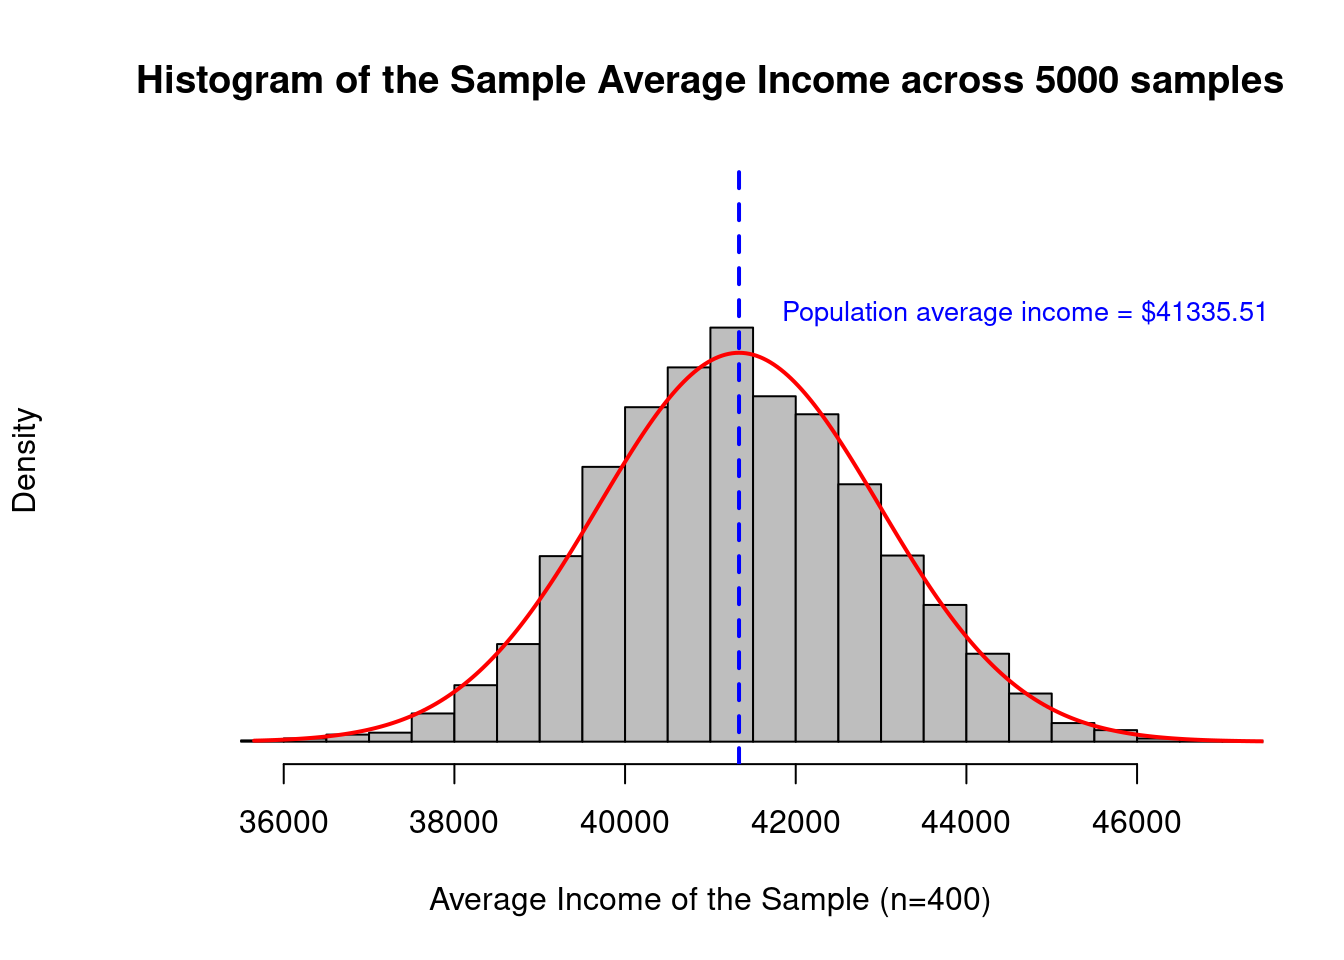
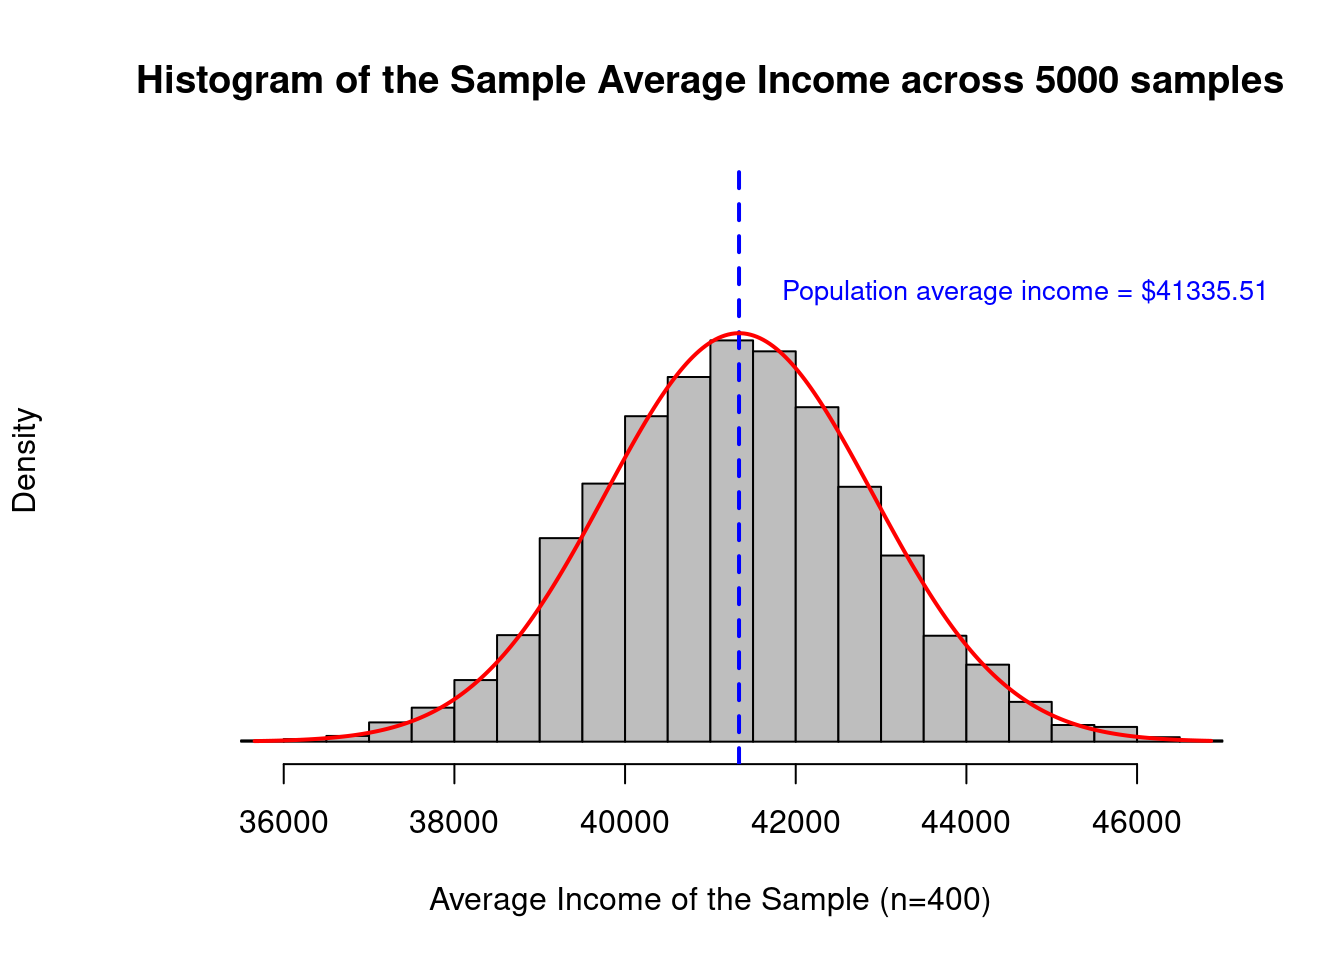
Undo Test

diff --git a/docs/03b-CLT.html b/docs/03b-CLT.html
@@ -306,7 +306,6 @@ div.tocify {
 
 
 
-<link rel="shortcut icon" href="images/favicon-32x32.png" />
 <div class="navbar navbar-default  navbar-fixed-top" role="navigation">
   <div class="container">
     <div class="navbar-header">
@@ -458,11 +457,11 @@ deviation of the sample.</p>
 <pre class="r"><code># Calculate the sample mean of Income
 sample.avg &lt;- mean(study.data$INCOME)
 sample.avg</code></pre>
-<pre><code>&gt; [1] 37427.38</code></pre>
+<pre><code>&gt; [1] 39835.91</code></pre>
 <pre class="r"><code># Calculate the sample sd of Income
 sample.sd &lt;- sd(study.data$INCOME)
 sample.sd</code></pre>
-<pre><code>&gt; [1] 28084.84</code></pre>
+<pre><code>&gt; [1] 31726.75</code></pre>
 <p>If you run the last two sections of code repeatedly, you will find
 that each time a new sample is selected the sample mean is a different
 number.</p>
@@ -588,7 +587,7 @@ upperCI = sample.avg + qnorm(0.975, mean = 0, sd = 1) * se
 
 print(cbind(sample.avg, lowerCI, upperCI))</code></pre>
 <pre><code>&gt;      sample.avg  lowerCI  upperCI
-&gt; [1,]   43535.68 40308.53 46762.83</code></pre>
+&gt; [1,]   39777.76 36705.45 42850.07</code></pre>
 </div>
 <div id="interpreting-confidence-intervals" class="section level2">
 <h2>Interpreting confidence intervals</h2>
@@ -614,7 +613,7 @@ sample.reps$outBounds[ true.avg &gt; sample.reps$upperCI ] &lt;- 1
 
 # what % of study replications reported 95% CI that did not include the true population average?
 sum(sample.reps$outBounds)/m</code></pre>
-<pre><code>&gt; [1] 0.0462</code></pre>
+<pre><code>&gt; [1] 0.055</code></pre>
 <p>I hope it is not too much of a surprise that this is really close to
 5%!</p>
 <p>Next: Elements of a Statistical Test</p>

diff --git a/docs/04a-Binomial-Test.html b/docs/04a-Binomial-Test.html
@@ -306,7 +306,6 @@ div.tocify {
 
 
 
-<link rel="shortcut icon" href="images/favicon-32x32.png" />
 <div class="navbar navbar-default  navbar-fixed-top" role="navigation">
   <div class="container">
     <div class="navbar-header">
@@ -367,7 +366,7 @@ if(runif(1) &lt;= p){1}else{0}</code></pre>
 p = 1/6
 n = 20
 as.integer(runif(n) &lt;= p)</code></pre>
-<pre><code>&gt;  [1] 0 1 0 0 0 0 0 0 0 0 0 0 1 0 0 0 0 1 0 0</code></pre>
+<pre><code>&gt;  [1] 0 0 0 1 0 1 1 0 0 0 0 0 0 0 0 1 1 0 0 0</code></pre>
 </div>
 </div>
 <div id="binomial-distribution-functions" class="section level2">
@@ -425,10 +424,9 @@ trials when the probability of success is “prob”</p>
 n = 20
 p = 1/6
 rbinom(n = trials, size = n, prob = p)</code></pre>
-<pre><code>&gt;   [1]  2  2  2  6  4  4  6  3  5  2  5  6  9  2  2  2  1  3  6  1  1  5  3  2  2
-&gt;  [26]  2  4  2  0  5  5  5  2  4  3 10  1  5  5  1  2  2  5  6  7  3  0  2  3  5
-&gt;  [51]  2  2  7  6  3  3  4  5  3  2  6  4  1  5  4  3  1  8  3  1  7  5  1  4  6
-&gt;  [76]  4  6  1  4  5  3  3  2  3  1  3  4  3  3  2  4  4  3  4  4  2  5  4  5  6</code></pre>
+<pre><code>&gt;   [1] 1 4 1 1 4 2 2 4 6 3 4 3 1 2 1 1 1 2 6 4 3 3 5 1 2 2 4 5 1 7 4 2 1 3 3 5 5
+&gt;  [38] 3 3 4 3 5 4 4 3 4 2 4 4 5 1 4 2 2 2 1 6 3 4 6 3 2 4 4 3 4 1 4 2 3 3 2 4 0
+&gt;  [75] 3 3 2 2 2 5 0 4 5 5 2 3 2 2 1 3 4 3 2 4 3 4 0 4 4 2</code></pre>
 </div>
 </div>
 <div id="binomial-test-theory" class="section level2">

diff --git a/docs/01-Datasets.html b/docs/01-Datasets.html
@@ -306,7 +306,6 @@ div.tocify {
 
 
 
-<link rel="shortcut icon" href="images/favicon-32x32.png" />
 <div class="navbar navbar-default  navbar-fixed-top" role="navigation">
   <div class="container">
     <div class="navbar-header">

diff --git a/docs/04b-T-Test.html b/docs/04b-T-Test.html
@@ -306,7 +306,6 @@ div.tocify {
 
 
 
-<link rel="shortcut icon" href="images/favicon-32x32.png" />
 <div class="navbar navbar-default  navbar-fixed-top" role="navigation">
   <div class="container">
     <div class="navbar-header">

diff --git a/docs/04c-WMW-U.html b/docs/04c-WMW-U.html
@@ -306,7 +306,6 @@ div.tocify {
 
 
 
-<link rel="shortcut icon" href="images/favicon-32x32.png" />
 <div class="navbar navbar-default  navbar-fixed-top" role="navigation">
   <div class="container">
     <div class="navbar-header">

diff --git a/docs/04d-ANOVA.html b/docs/04d-ANOVA.html
@@ -306,7 +306,6 @@ div.tocify {
 
 
 
-<link rel="shortcut icon" href="images/favicon-32x32.png" />
 <div class="navbar navbar-default  navbar-fixed-top" role="navigation">
   <div class="container">
     <div class="navbar-header">

diff --git a/docs/Cyberville-Description.html b/docs/Cyberville-Description.html
@@ -306,7 +306,6 @@ div.tocify {
 
 
 
-<link rel="shortcut icon" href="images/favicon-32x32.png" />
 <div class="navbar navbar-default  navbar-fixed-top" role="navigation">
   <div class="container">
     <div class="navbar-header">

diff --git a/docs/Graphing-In-R.html b/docs/Graphing-In-R.html
@@ -306,7 +306,6 @@ div.tocify {
 
 
 
-<link rel="shortcut icon" href="images/favicon-32x32.png" />
 <div class="navbar navbar-default  navbar-fixed-top" role="navigation">
   <div class="container">
     <div class="navbar-header">

diff --git a/docs/Hypothesis-Testing.html b/docs/Hypothesis-Testing.html
@@ -306,7 +306,6 @@ div.tocify {
 
 
 
-<link rel="shortcut icon" href="images/favicon-32x32.png" />
 <div class="navbar navbar-default  navbar-fixed-top" role="navigation">
   <div class="container">
     <div class="navbar-header">

diff --git a/docs/Intro-To-Coding-R.html b/docs/Intro-To-Coding-R.html
@@ -306,7 +306,6 @@ div.tocify {
 
 
 
-<link rel="shortcut icon" href="images/favicon-32x32.png" />
 <div class="navbar navbar-default  navbar-fixed-top" role="navigation">
   <div class="container">
     <div class="navbar-header">

diff --git a/docs/Intro-To-R.html b/docs/Intro-To-R.html
@@ -306,7 +306,6 @@ div.tocify {
 
 
 
-<link rel="shortcut icon" href="images/favicon-32x32.png" />
 <div class="navbar navbar-default  navbar-fixed-top" role="navigation">
   <div class="container">
     <div class="navbar-header">

diff --git a/docs/Lab1.html b/docs/Lab1.html
@@ -308,7 +308,6 @@ div.tocify {
 
 
 
-<link rel="shortcut icon" href="images/favicon-32x32.png" />
 <div class="navbar navbar-default  navbar-fixed-top" role="navigation">
   <div class="container">
     <div class="navbar-header">
